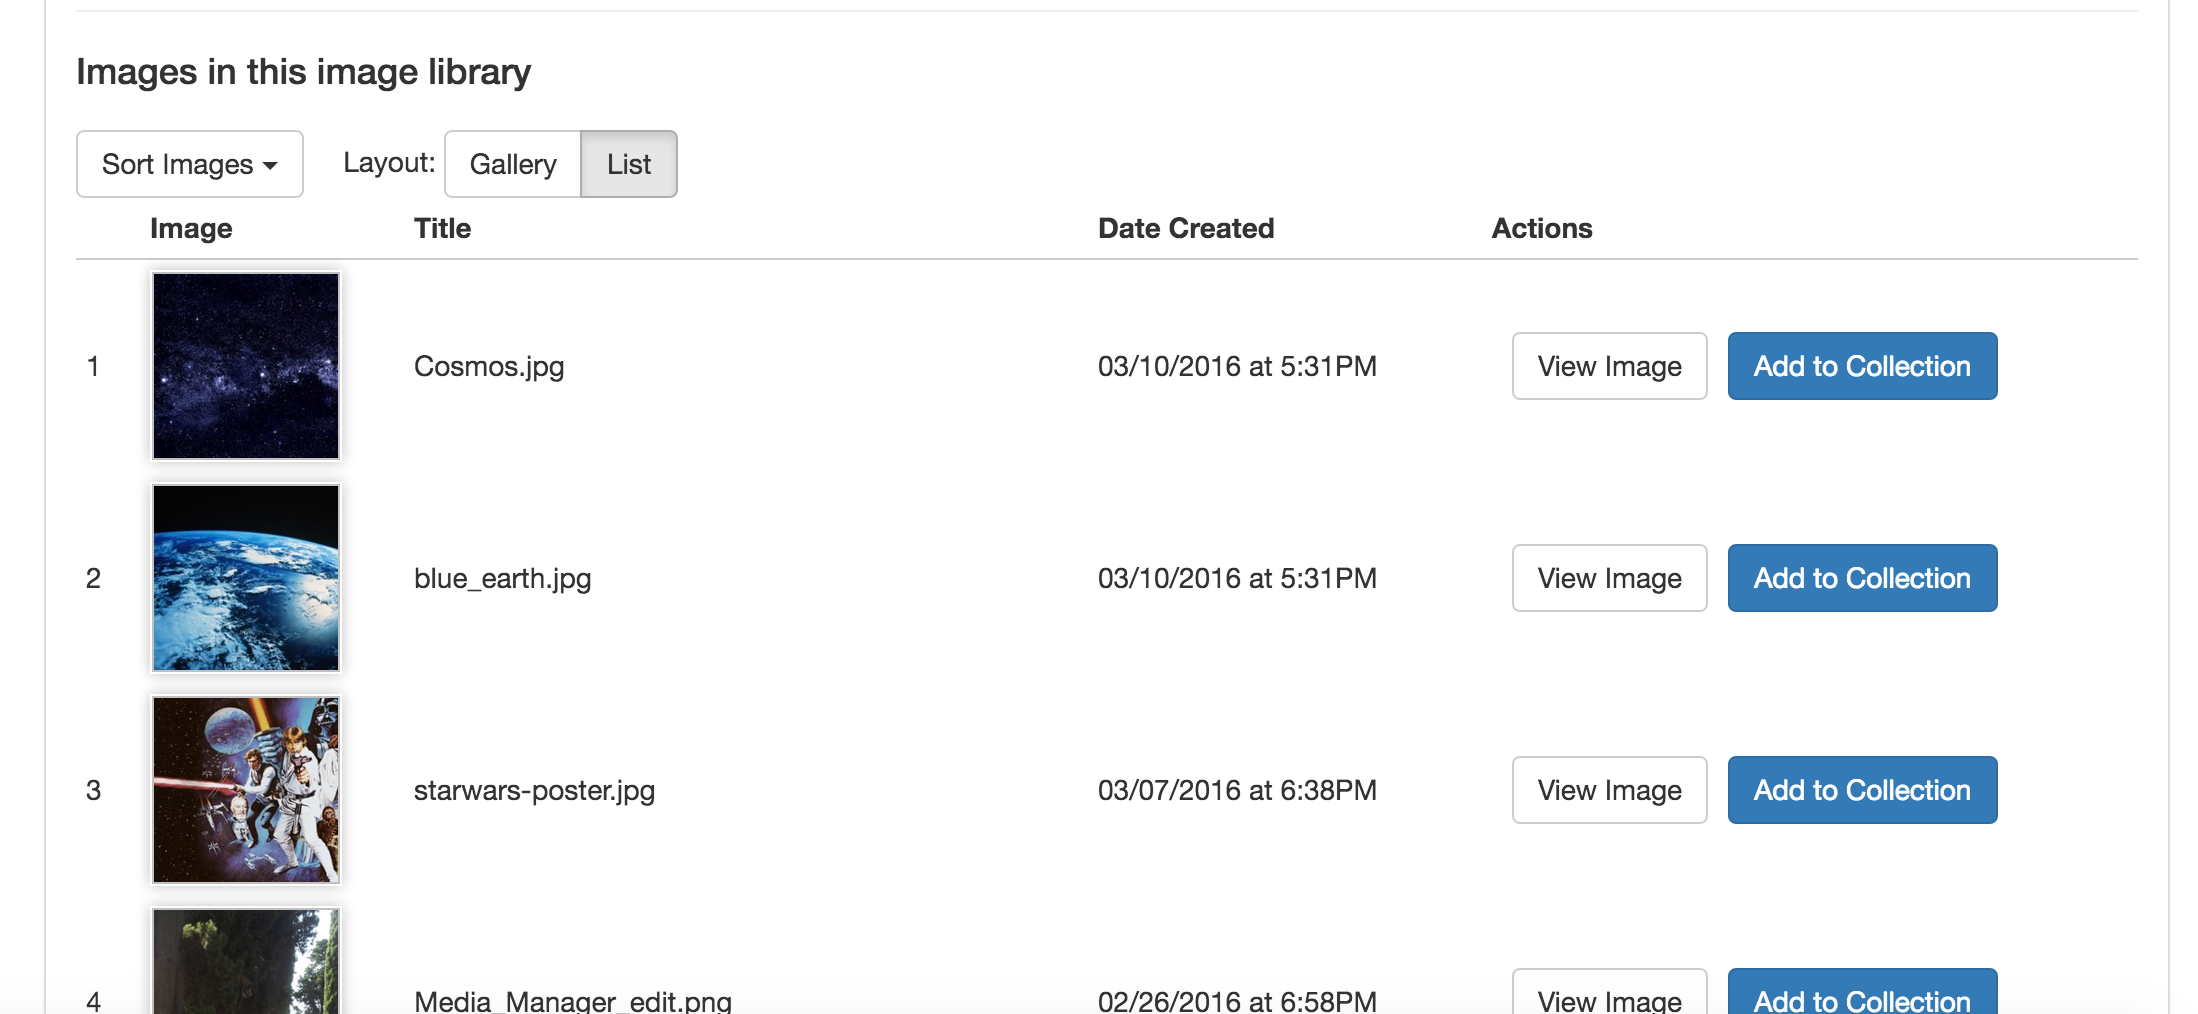
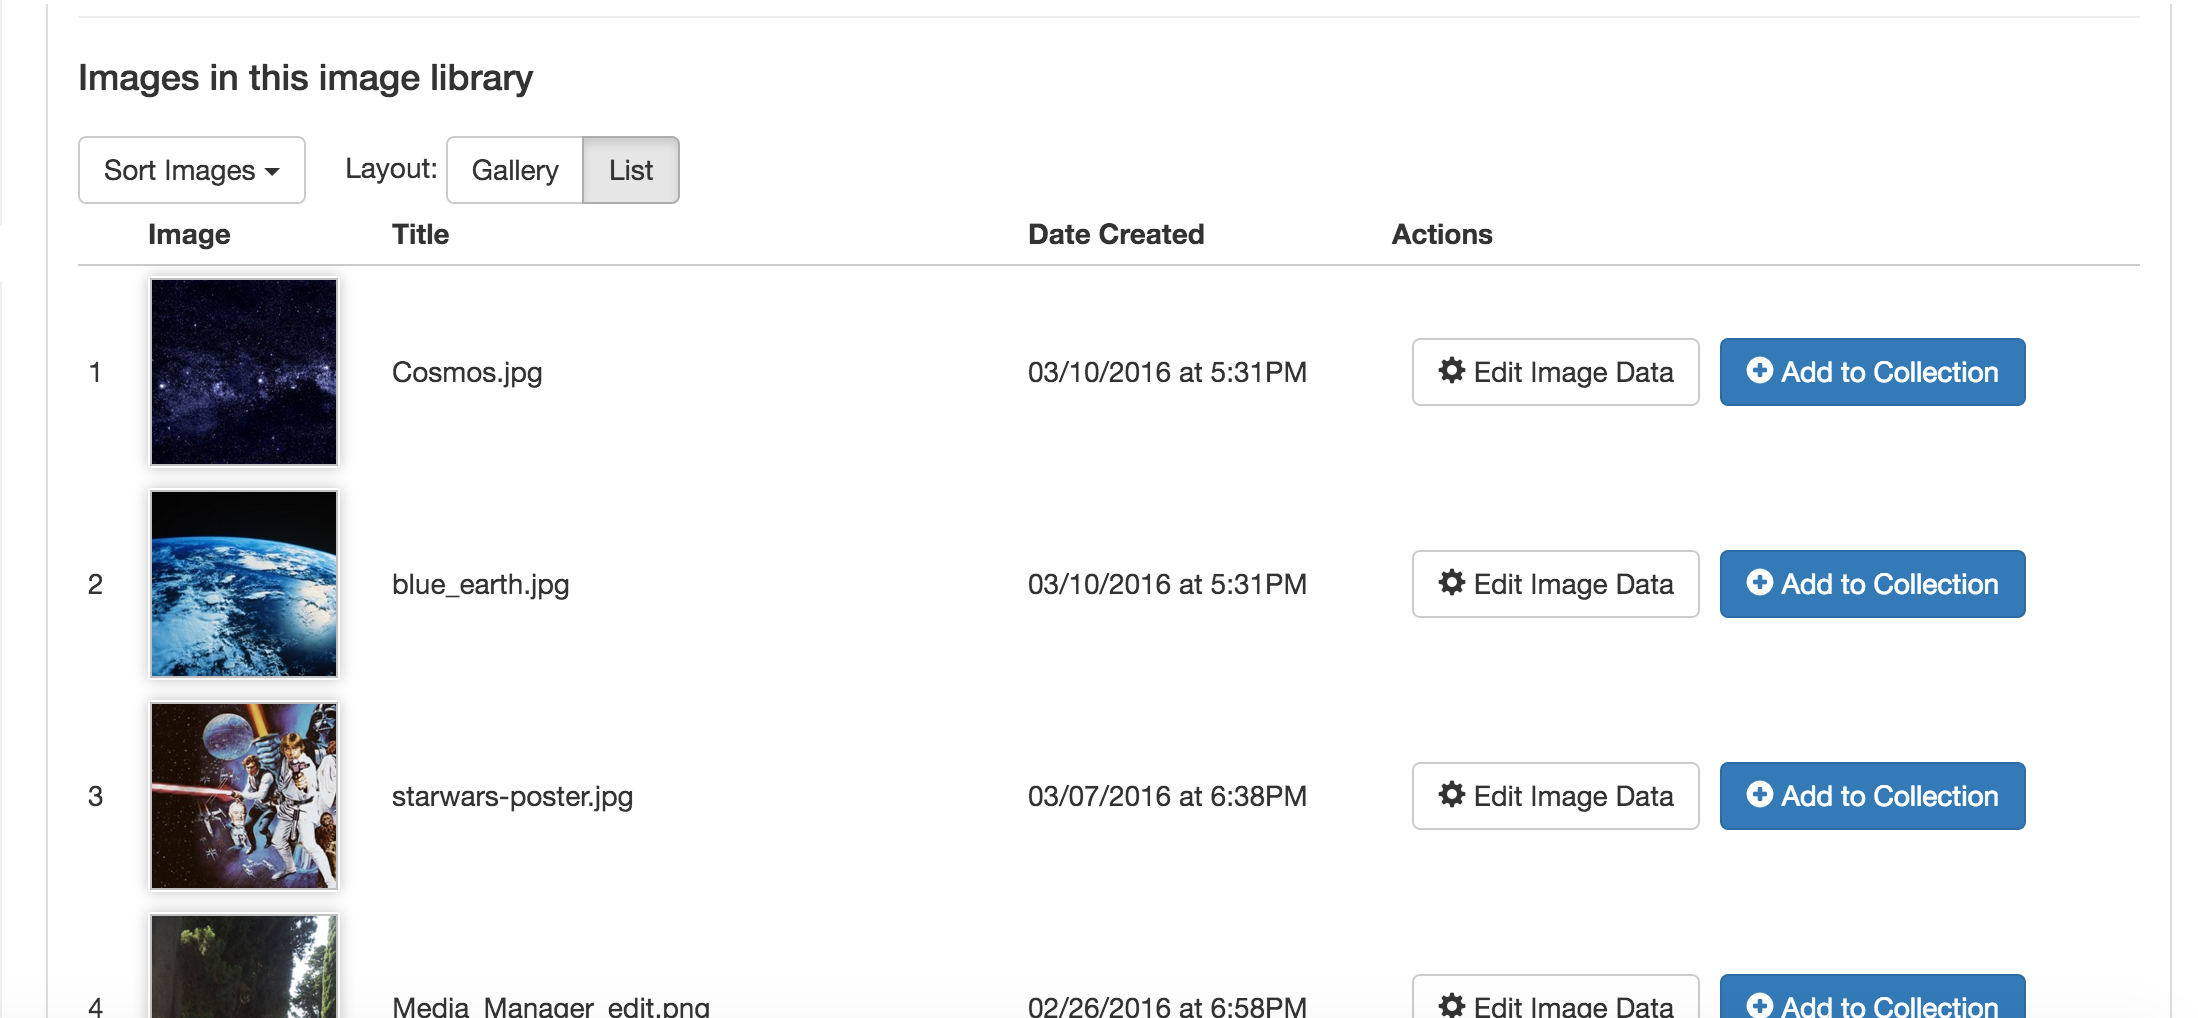
Media Manager Image Library list view, proposed screen and UI code

diff --git a/Media_Manager_images_list/index.html b/Media_Manager_images_list/index.html
@@ -4,7 +4,8 @@
                               <th></th>
                               <th>Image</th>
                               <th>Title</th>
-                              <th>Date Created</th>
+<!-- UI comment - Changed "Created" to "Added" -->
+                              <th>Date Added</th>
                               <th>Actions</th>
                           </tr>
                       </thead>
@@ -17,7 +18,8 @@
                               <td class="ng-binding">Cosmos.jpg</td>
                               <td class="ng-binding">03/10/2016 at 5:31PM</td>
                               <td>
-                                  <button class="btn btn-default" ng-click="wc.imageView(courseImage.id)">View Image
-                                  </button><button class="btn btn-primary" ng-click="wc.addToCollection(courseImage)">Add to Collection
+<!-- UI comment - Adding the same icons as in the grid view for consistency -->
+                                  <button class="btn btn-default" ng-click="wc.imageView(courseImage.id)"><span class="glyphicon glyphicon-cog"></span> Edit Image Data
+                                  </button><button class="btn btn-primary" ng-click="wc.addToCollection(courseImage)"><span class="glyphicon glyphicon-plus-sign"></span> Add to Collection
                               </button></td>
                           </tr><!-- end ngRepeat: courseImage in wc.courseImages track by $index -->
